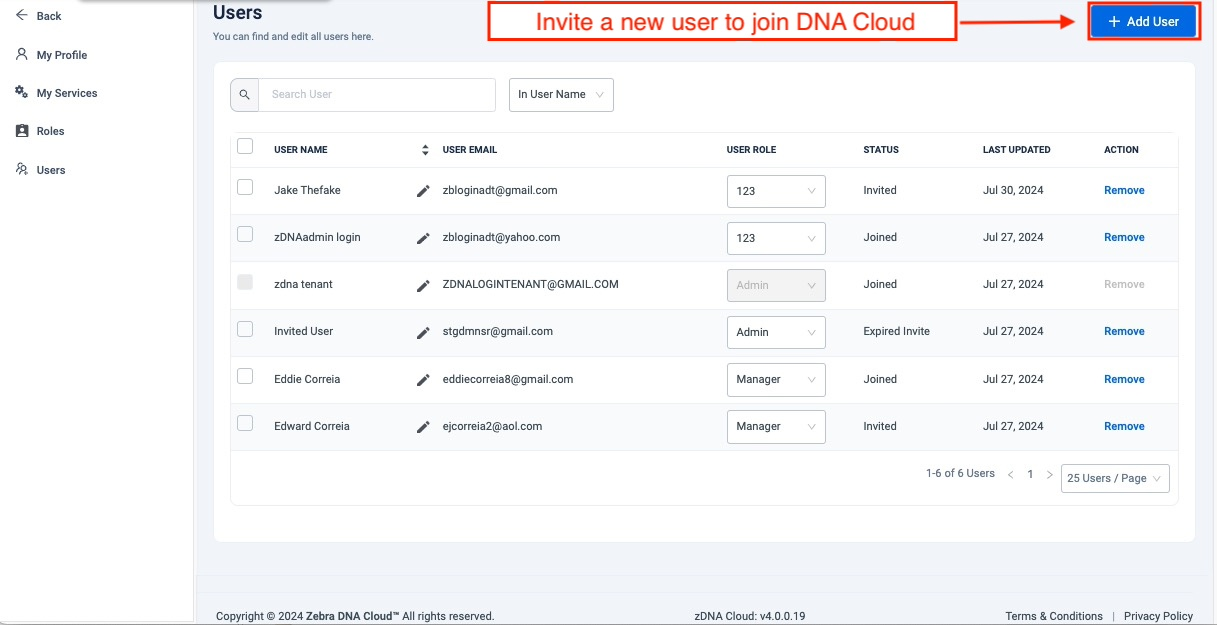
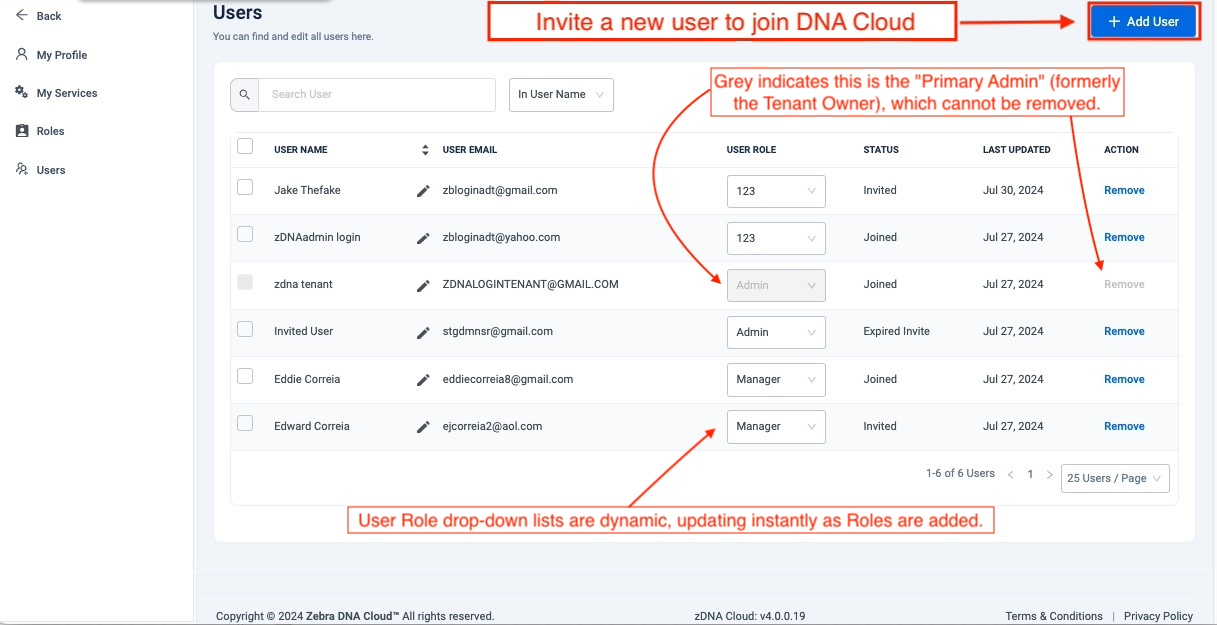
[DLM-36411; DLM-36268] ZDNA 4.0 updates, per eng

diff --git a/zebradna/4-0/setup/index.html b/zebradna/4-0/setup/index.html
@@ -509,7 +509,8 @@ If wildcards are not supported or desired, add the following domain names to the
 
 <hr>
 
-<p><strong>4. Enter the user's Role (required) and email address. Then click "Add"</strong> to send a DNA Cloud enrollment invitation:
+<p><strong>4. Select the user's Role from the drop-down and their email address (both are required). Then click "Add"</strong>; An invitation to join DNA Cloud is sent to the address.<br>
+<i class="fa fa-exclamation-triangle" style="color:#FFA500;"></i> Before any Roles are created by an organization, only the Admin and Manager Roles are available for selection. If one or more custom Roles are desired, <a href="#createroles">Create Roles</a> before proceeding. The Roles drop-down list updates instantly upon creation. 
 <img alt="image" style="height:250px" src="40_add_user.jpg">
 <em>Click image to enlarge; ESC to exit.</em>
 <br></p>
@@ -519,22 +520,22 @@ If wildcards are not supported or desired, add the following domain names to the
 <hr>
 
 <p>5. Prior to enrolling, <strong>newly invited users appear as "invited" the list of Users</strong> (as seen in the image below).<br>
-&nbsp;&nbsp;&nbsp; <i class="fa fa-exclamation-triangle" style="color:#FFA500;"></i> <strong>User Name Notes</strong><br>
-&nbsp;&nbsp;&nbsp; User names appear automatically for invited users already registered with Zebra.com.<br>
-&nbsp;&nbsp;&nbsp; Names of unregistered invitees appear as "Invited User" until they register (required).<br>
-&nbsp;&nbsp;&nbsp; To edit a user name, click the <i class="fa fa-pencil" aria-hidden="true"></i> icon. <br>
-&nbsp;&nbsp;&nbsp; User name fields accept alphanumeric, Unicode and some special characters. 
+<i class="fa fa-exclamation-triangle" style="color:#FFA500;"></i> <strong>User-name Notes</strong><br>
+&nbsp;&nbsp;&nbsp;• User names appear automatically for invited users already registered with Zebra.com.<br>
+&nbsp;&nbsp;&nbsp;• Names of unregistered invitees appear as "Invited User" until they register (required).<br>
+&nbsp;&nbsp;&nbsp;• To edit a user name, click the <i class="fa fa-pencil" aria-hidden="true"></i> icon. <br>
+&nbsp;&nbsp;&nbsp;• User name fields accept alphanumeric, Unicode and some special characters. 
 <img alt="image" style="height:350px" src="40_users_screen_invited.jpg">
 <em>Click image to enlarge; ESC to exit.</em>
 <br></p>
 
 <!-- <a id="myservices"></a> -->
 
-<p>6. In My Services screen, <strong>click "Connect" on the desired service(s)</strong> and follow prompts.<br><i class="fa fa-exclamation-triangle" style="color:#FFA500;"></i> Services activated here are available for use in setup Profiles, but only an Admin can create, edit or disable them. <strong><a href="../setup/#myservicesnotes">See My Services notes</a> below</strong>. </p>
+<p>6. In the My Services section, <strong>click "Connect" on the desired service(s)</strong> and follow prompts.<br><i class="fa fa-exclamation-triangle" style="color:#FFA500;"></i> Services activated here are available for use in setup Profiles, but only an Admin can create, edit or disable them. <strong><a href="../setup/#myservicesnotes">See My Services notes</a> below</strong>. </p>
 
 <h5 id="beforeconnectionofservices" class="anchor"><a class="heading-anchor" href="#beforeconnectionofservices"><span></span></a>Before connection of services:</h5>
 
-<p><img alt="image" style="height:350px" src="314_services_disconnected.png">
+<p><img alt="image" style="height:350px" src="40_disconnected.png">
 <em>Click image to enlarge; ESC to exit.</em>
 <br></p>
 
@@ -584,9 +585,9 @@ If wildcards are not supported or desired, add the following domain names to the
 <i><font size="2" color="DimGrey"> * Designated as sensitive, prompting a warning when granting permission.</font></i></li>
 </ul>
 
-<p><i class="fa fa-check-circle" style="color:#27AE60;"></i> The ZDNA Dashboard is visible to all Users regardless of Role. </p>
+<p><i class="fa fa-check-circle" style="color:#27AE60;"></i> The ZDNA Dashboard is visible to all Users regardless of Role. Android Updates and New Device Setup sections appear "greyed out" for users with "No Access" permission. </p>
 
-<p><i class="fa fa-exclamation-triangle" style="color:#FFA500;"></i> Roles are visible only to Admins and users assigned the Admin Role. </p>
+<p><i class="fa fa-exclamation-triangle" style="color:#FFA500;"></i> Roles are visible only to the Primary Admin and to users assigned the Admin Role. </p>
 
 <h4 id="accesslevels" class="anchor"><a class="heading-anchor" href="#accesslevels"><span></span></a>Access Levels</h4>
 
@@ -607,16 +608,21 @@ If wildcards are not supported or desired, add the following domain names to the
 
 <li><strong>Users can view their assigned Role</strong> on their User Profile page. </li>
 
-<li><strong>The Primary "Admin" (formerly Tenant Owner, displayed above as "Admin") has full access to all areas and features</strong>; this Role cannot be changed or deleted.</li>
+<li><strong>The Primary Admin (formerly Tenant Owner)* has full access to all areas and features</strong>; this Role cannot be changed or deleted.</li>
 
-<li><strong>The "Manager" Role cannot be deleted</strong>, but its permissions can be edited.</li>
+<li><strong>The "Manager" Role cannot be deleted</strong>; its default permissions can be edited.</li>
 
 <li><strong>Only an Admin can create additional users with Admin-level permissions</strong>. </li>
 
 <li><strong>The Roles section is accessible ONLY by the Admin</strong> and users assigned the Admin Role. </li>
 
 <li><strong>Only the Primary Admin can reauthorize services</strong>.</li>
+
+<li><strong>No user can grant permissions above their own access level</strong>.</li>
 </ul>
+
+<p><i><font size="2" color="DimGrey"> * The Admin (formerly the Tenant Owner) has privledges above all others. This user is <b>referred to in documentation as the "Primary Admin"</b> to differentiate it from users assigned the Admin Role. Such users are referred to simply as "Admins" in TechDocs. 
+</font></i> </p>
 
 <h4 id="tocreatearole" class="anchor"><a class="heading-anchor" href="#tocreatearole"><span></span></a>To Create a Role:</h4>
 

diff --git a/zebradna/4-0/about/index.html b/zebradna/4-0/about/index.html
@@ -267,9 +267,7 @@ or maybe link to III Create Users /#iiimanageusers
 
 
 <ul>
-<li><strong>Primary Admin</strong> (formerly Tenant Owner) </li>
-
-<li><strong>Admin</strong> (nearly equivalent to Primary Admin)</li>
+<li><strong>Admin</strong> (formerly Tenant Owner)* </li>
 
 <li><strong>Manager</strong> (formerly Administrative User)</li></ul>
 </li>
@@ -278,6 +276,9 @@ or maybe link to III Create Users /#iiimanageusers
 
 <li>Adds friendly messages for remote-support error scenarios </li>
 </ul>
+
+<p><i><font size="2" color="DimGrey"> * The Admin (formerly the Tenant Owner) has privledges above all others. This user is <b>referred to in documentation as the "Primary Admin"</b> to differentiate it from users assigned the Admin Role. Such users are referred to simply as "Admins" in TechDocs. 
+</font></i> </p>
 
 <!-- FROM RN
 * Similar to the previous system, ZDNA 4.0 initially implements two User Roles:  
